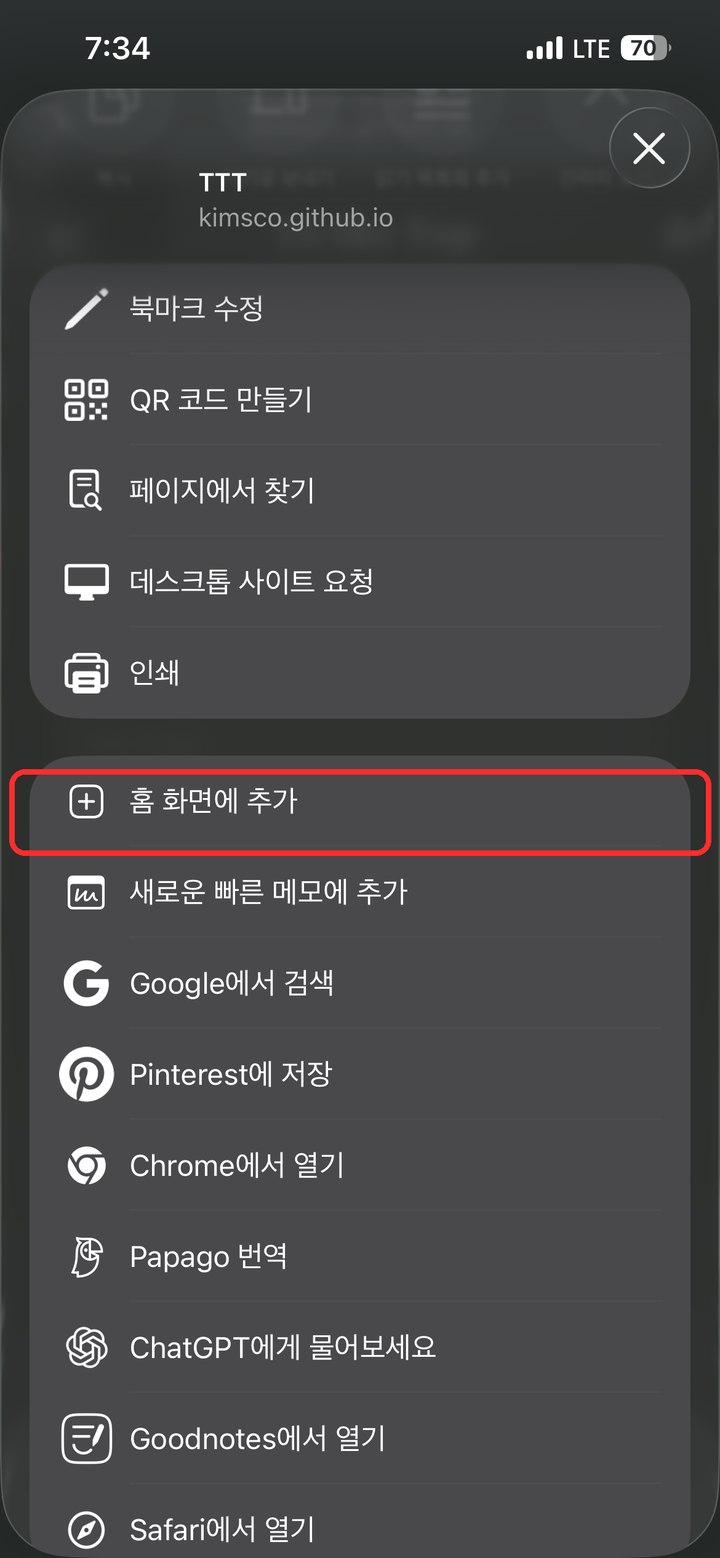
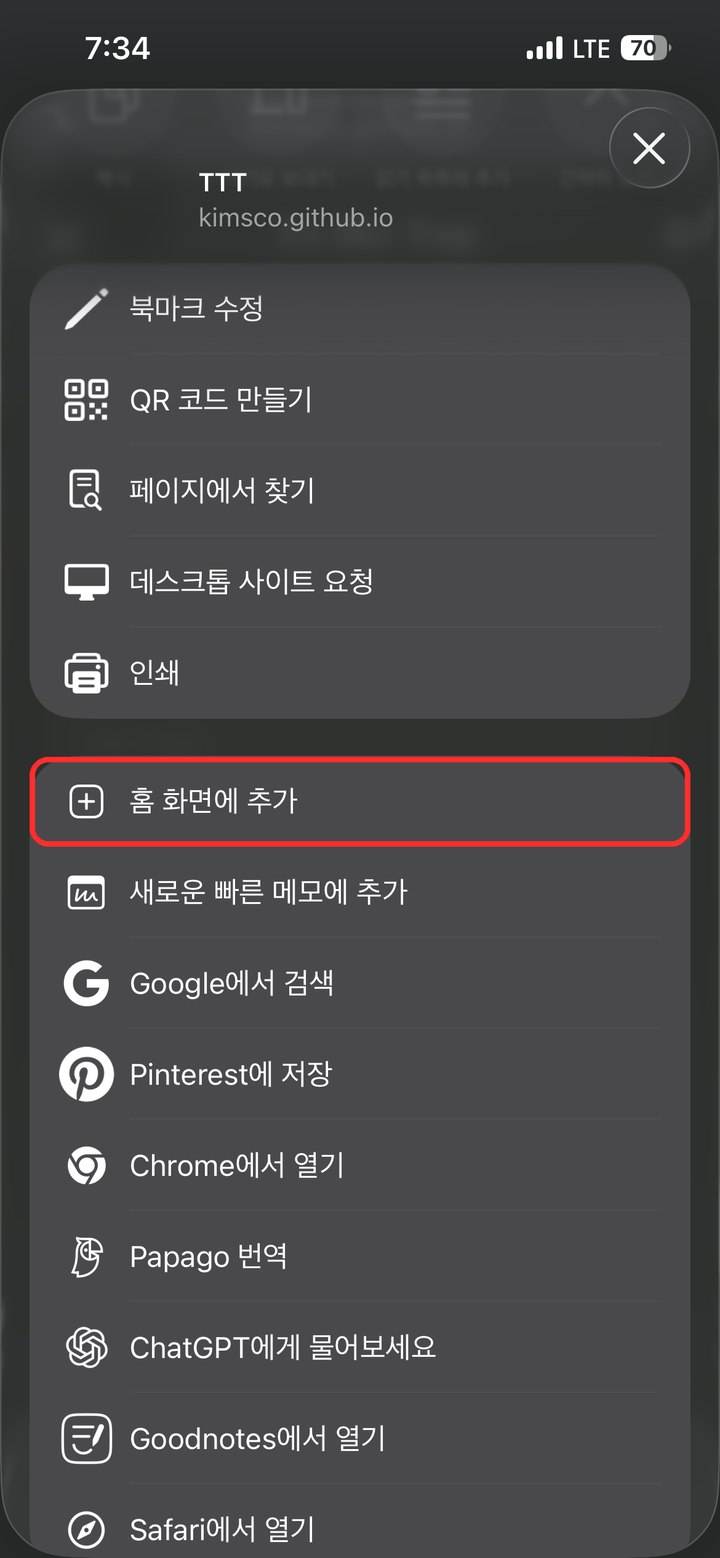
fix: Safari 5번/Chrome 3번 사진 테두리 위치 재조정 (#691)
- Safari 5번("추가" 버튼): 빨간 테두리가 버튼 중심보다 위로 치우쳐
  있어 버튼 아래쪽이 테두리 밖으로 삐져나와 있던 것을 버튼 중심에
  맞춰 재조정
- Chrome 3번("홈 화면에 추가"): 테두리가 실제 행(카드 내부 배경)보다
  좌우로 훨씬 넓게 그려져 카드 바깥 여백까지 감싸고 있던 것을 원본에서
  행의 실제 좌우 경계를 다시 측정해 정확히 맞춤

Claude-Session: https://claude.ai/code/session_01TNoGCWRQtXcfdnQwZ6HvCX

Changed region(s): [[0.0, 0.4621, 1.0, 0.5546]]

diff --git a/index.html b/index.html
@@ -11264,7 +11264,7 @@ const settingsHeaderName = document.getElementById("settingsHeaderName");
 const settingsHeaderSub = document.getElementById("settingsHeaderSub");
 
 /* ✅ 앱 버전 정의 — 의미 있는 수정/배포마다 올림(설정 화면에서 "최신 버전 받았는지" 확인용) */
-const APP_VERSION = "0.9.227";
+const APP_VERSION = "0.9.228";
 const appVersionDisplay = document.getElementById("appVersionDisplay");
 if (appVersionDisplay) {
   appVersionDisplay.textContent = APP_VERSION;
